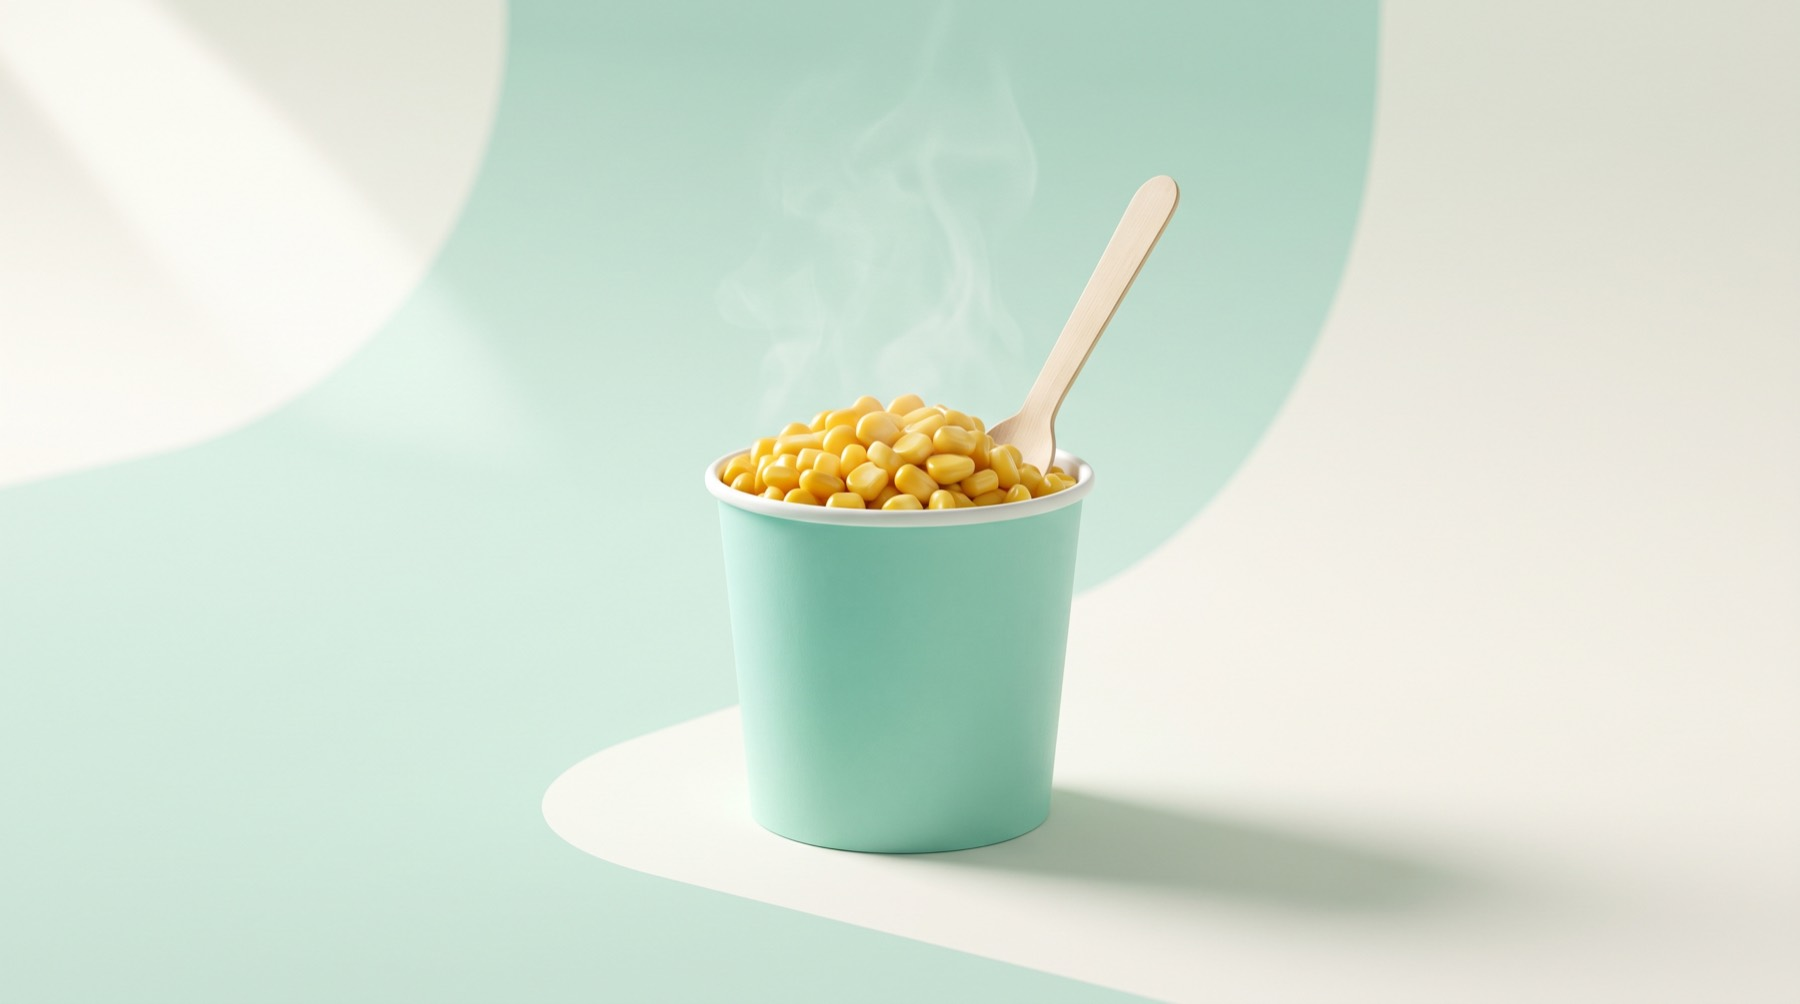
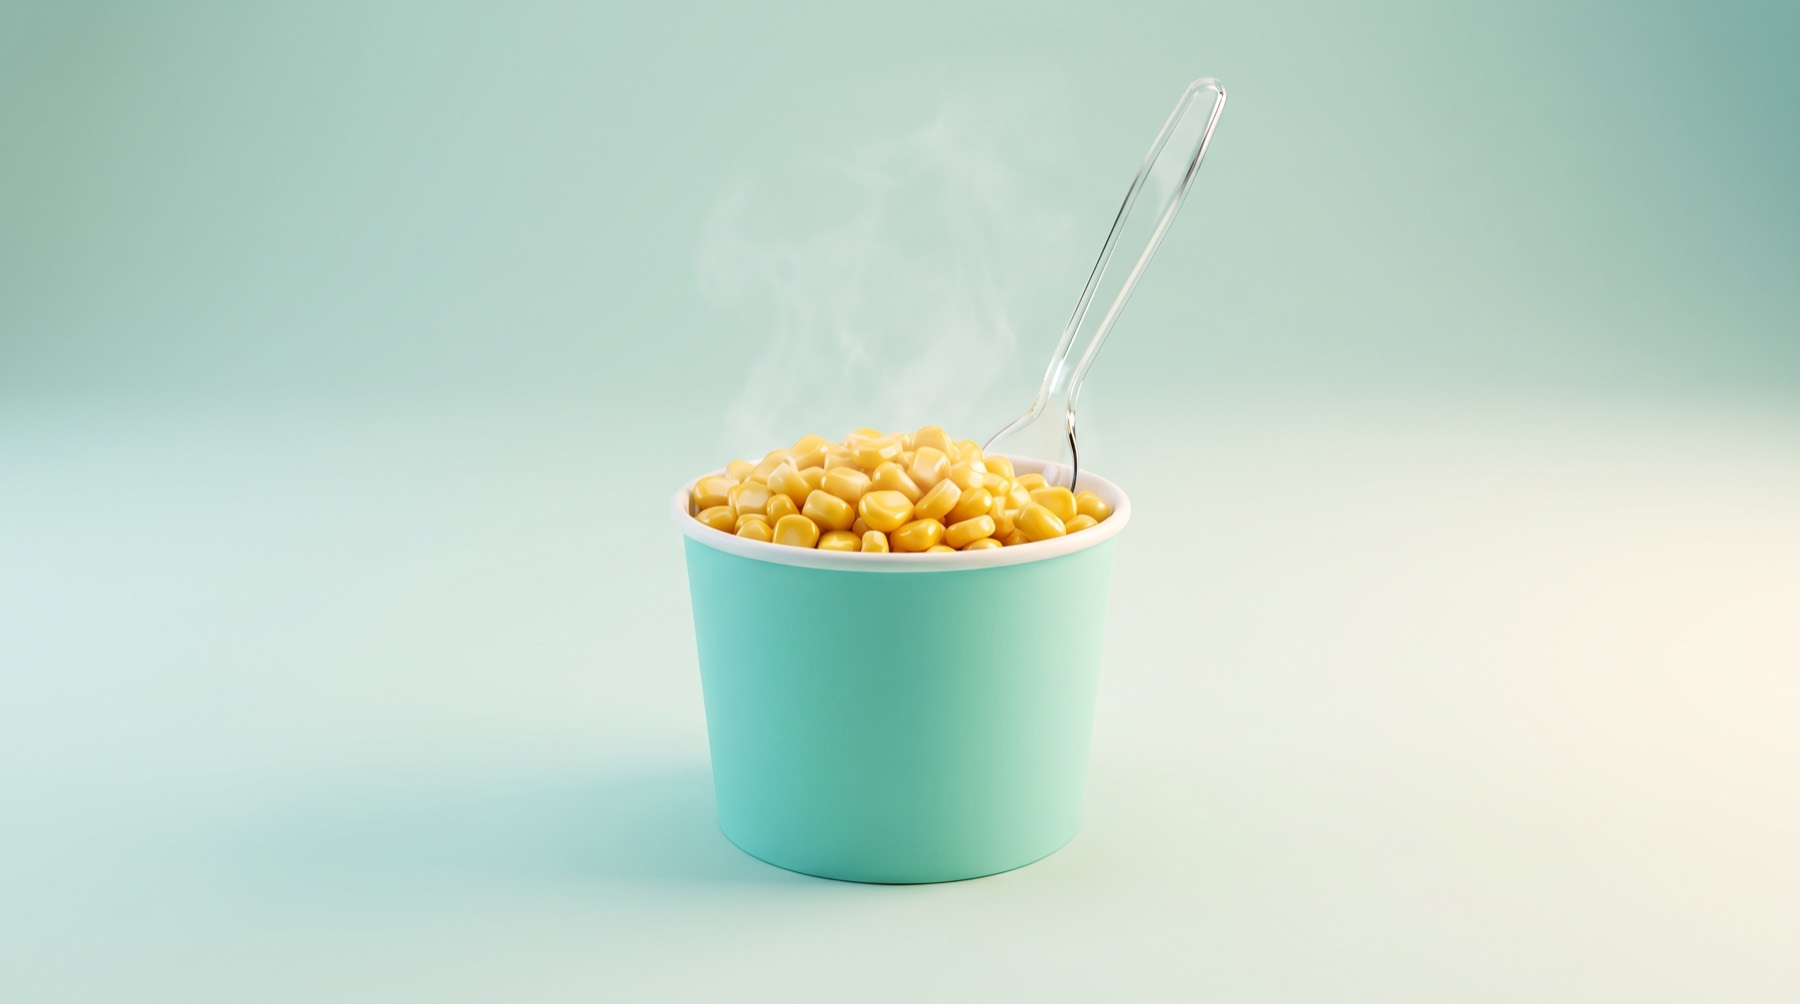
Мобильная версия: вертикальные кадры стаканов, шапка в одну строку, прозрачные ложки

diff --git a/index.html b/index.html
@@ -86,9 +86,9 @@
   .brand { font-family: "Unbounded", sans-serif; font-weight: 700; font-size: 1.25rem; color: var(--cocoa); display: flex; align-items: center; gap: 10px; }
   .brand svg { width: 26px; height: 26px; }
   .nav nav { display: flex; gap: 28px; font-weight: 600; font-size: 0.95rem; }
-  .nav nav a { opacity: 0.8; transition: opacity .2s; }
+  .nav nav a { opacity: 0.8; transition: opacity .2s; white-space: nowrap; }
   .nav nav a:hover, .nav nav a:focus-visible { opacity: 1; outline: none; border-bottom: 2px solid var(--mint); }
-  @media (max-width: 640px) { .nav nav { gap: 16px; font-size: 0.85rem; } .nav nav a:nth-child(2) { display: none; } }
+  @media (max-width: 640px) { .nav nav { gap: 16px; font-size: 0.85rem; } .brand { font-size: 1.1rem; } }
 
   /* buttons */
   .btn { display: inline-flex; align-items: center; gap: 8px; padding: 14px 24px; border-radius: 999px; font-weight: 700; font-size: 0.98rem; transition: transform .15s, box-shadow .15s; }
@@ -107,6 +107,7 @@
   .hero-actions { display: flex; gap: 14px; justify-content: center; margin-top: 32px; flex-wrap: wrap; }
   .hero-img { margin-top: 56px; border-radius: var(--radius); overflow: hidden; box-shadow: var(--shadow); }
   .hero-img img { width: 100%; aspect-ratio: 16/9; object-fit: cover; }
+  @media (max-width: 640px) { .hero-img { margin-top: 36px; } .hero-img img { aspect-ratio: 4/5; } }
 
   /* punch line */
   .punch { background: var(--mint); color: #1F3532; padding: 72px 0; text-align: center; border-top: 0; }
@@ -125,6 +126,7 @@
   .menu-head { display: grid; grid-template-columns: 1fr 1fr; gap: 40px; align-items: end; }
   .sizes-img { margin-top: 44px; border-radius: var(--radius); overflow: hidden; background: var(--paper); }
   .sizes-img img { width: 100%; aspect-ratio: 16/9; object-fit: cover; }
+  @media (max-width: 640px) { .sizes-img img { aspect-ratio: 4/5; } }
   .prices { display: grid; grid-template-columns: repeat(3, 1fr); gap: 20px; margin-top: 20px; }
   .price { padding: 28px; border-radius: 22px; background: var(--paper); border: 1px solid var(--line); display: flex; flex-direction: column; gap: 6px; }
   .price .g { font-family: "Unbounded", sans-serif; font-size: 2rem; font-weight: 700; color: var(--cocoa); font-variant-numeric: tabular-nums; }
@@ -193,7 +195,7 @@
       <a href="#menu">Меню</a>
       <a href="#about">О нас</a>
       <a href="#jobs">Вакансии</a>
-      <a href="#contacts">Точки и контакты</a>
+      <a href="#contacts">Контакты</a>
     </nav>
   </div>
 </header>
@@ -208,7 +210,7 @@
         <a class="btn btn-primary" href="#menu">Смотреть меню</a>
         <a class="btn btn-ghost" href="#contacts">Наши точки</a>
       </div>
-      <div class="hero-img reveal"><img src="img/hero.jpg" alt="Стакан горячей кукурузы Кукурай на мятном фоне" width="1800" height="1012"></div>
+      <div class="hero-img reveal"><picture><source media="(max-width: 640px)" srcset="img/hero-m.jpg"><img src="img/hero.jpg" alt="Стакан горячей кукурузы Кукурай на мятном фоне" width="1800" height="1012"></picture></div>
     </div>
   </section>
 
@@ -257,7 +259,7 @@
         </div>
         <p class="lead">Выберите стакан по аппетиту и добавьте топпинг — от классики с маслом до кукурузы под пармезаном.</p>
       </div>
-      <div class="sizes-img reveal"><img src="img/sizes.jpg" alt="Три размера стаканчиков кукурузы: 120, 170 и 240 граммов" width="1800" height="1012"></div>
+      <div class="sizes-img reveal"><picture><source media="(max-width: 640px)" srcset="img/sizes-m.jpg"><img src="img/sizes.jpg" alt="Три размера стаканчиков кукурузы: 120, 170 и 240 граммов" width="1800" height="1012"></picture></div>
       <div class="prices">
         <div class="price reveal"><span class="tag">Маленький</span><span class="g">120<small>г</small></span><span class="rub">200 ₽</span></div>
         <div class="price pop reveal"><span class="tag">Средний · самый популярный</span><span class="g">170<small>г</small></span><span class="rub">250 ₽</span></div>
